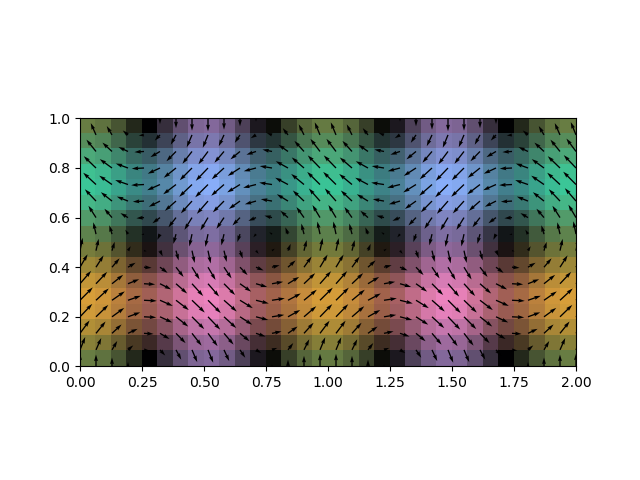
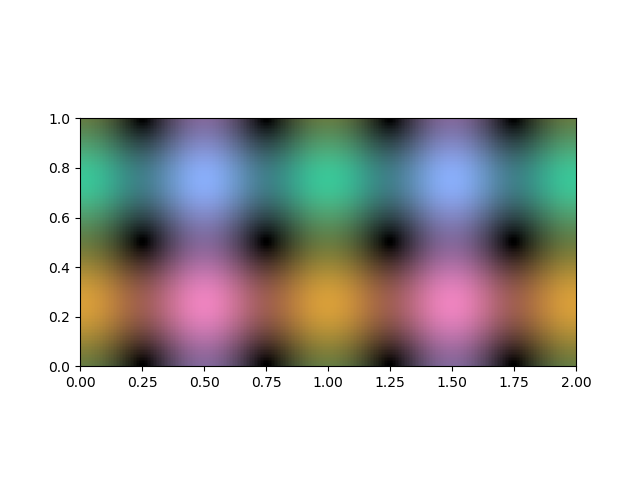
Color maps are now evaulated in a much faster fashion ~500x faster, arrays of arbitrary dimension should be supported now too!

Changed region(s): [[0.125, 0.25, 0.9062, 0.7812]]

diff --git a/papuc/core.py b/papuc/core.py
@@ -259,7 +259,7 @@ class isoluminant_uniform_spline_colormap:
 		else:
 			image = np.zeros(list(z_ar.shape)+[3])
 
-		if dims == 0:
+		if dims == 0: # single pixel
 			a = self.a_func_of_theta(theta_ar)
 			b = self.b_func_of_theta(theta_ar)
 
@@ -278,7 +278,40 @@ class isoluminant_uniform_spline_colormap:
 			if scale_alpha: sRGB1_color =  np.append(sRGB1_color, z_ar)
 			image = sRGB1_color
 
+		elif dims >= 1: # testing a more numpy friendly, faster code
+			lab_image = np.zeros(list(z_ar.shape)+[3])
+			lab_image[..., 0] = self.L_max
+			lab_image[..., 1] = self.a_func_of_theta(theta_ar)
+			lab_image[..., 2] = self.b_func_of_theta(theta_ar)
+			if scale_alpha == False: # this is the normal form
+				for i in range(3):
+					lab_image[...,i] *= z_ar
 
+			sRGB1_image = cspace_convert(lab_image, self.color_space , "sRGB1")
+
+			if clip_values:
+				sRGB1_image_clipped = np.clip(sRGB1_image,0,1)
+				if verbose:
+					out_of_gamut = np.any(sRGB1_image>1, axis = -1 ) | np.any(sRGB1_image<0, axis = -1 )
+					out_of_gamut_points = sRGB1_image[out_of_gamut]
+					out_of_gamut_points = out_of_gamut_points.reshape((out_of_gamut_points.size//3,3))
+					for i in range(out_of_gamut_points.shape[0]):
+						sRGB1_color = out_of_gamut_points[i]
+						sRGB1_color_clipped = np.clip(sRGB1_color,0,1)
+						Lab_color = cspace_convert(sRGB1_color, "sRGB1", self.color_space )
+						Lab_color_clipped = cspace_convert(sRGB1_color_clipped, "sRGB1", self.color_space )
+						print ('L*a*b*/sRGB1 color', Lab_color, '/', sRGB1_color,
+							'\n-----> clipped to',  Lab_color_clipped, '/', sRGB1_color_clipped)
+
+				image[...,0:3] = np.clip(sRGB1_image_clipped,0,1)
+			else:
+				image[...,0:3] = sRGB1_image
+
+			if scale_alpha:
+				image[..., 3] =  z_ar
+
+
+		######## lazy deprication? old and slow
 		elif dims == 1:
 			for i in range(z_ar.shape[0]):
 				a = self.a_func_of_theta(theta_ar[i])
@@ -319,7 +352,6 @@ class isoluminant_uniform_spline_colormap:
 
 					if scale_alpha: sRGB1_color =  np.append(sRGB1_color, z_ar[i,j])
 					image[i,j] = sRGB1_color
-
 		return image
 
 

diff --git a/papuc/examples/usage_example.py b/papuc/examples/usage_example.py
@@ -13,7 +13,7 @@ angle = np.arctan2(V,U)
 magnitude = np.sqrt(V**2 + U**2)
 magnitude_norm = magnitude/magnitude.max()
 
-###### Now for visualization 
+###### Now for visualization
 from papuc.example_maps import colormaps
 my_map = colormaps['default']
 
